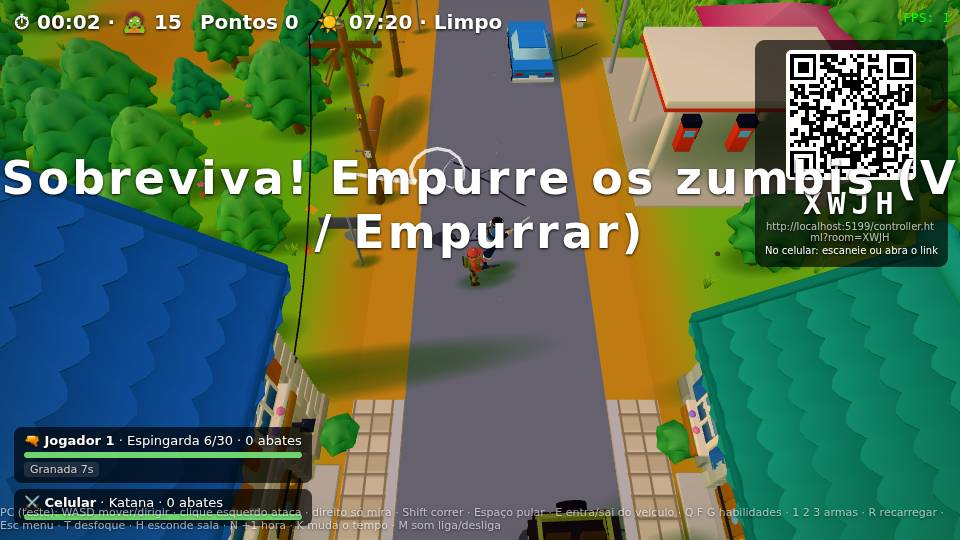
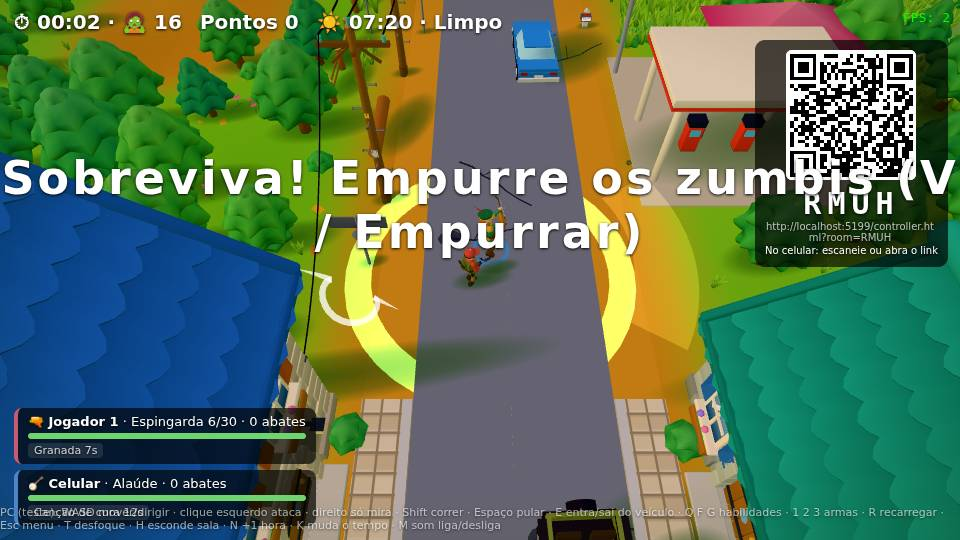
J1: escolher a classe no menu (classes repetidas) + anel da cor da vaga
- Cada vaga ocupada mostra ◀ classe ▶: mouse, A/D (ou ←/→) no teclado, ◀ ▶ na espera do celular
  (o celular manda act 'prev'/'next'; no menu o main.js leva ao lobby.pick)
- Classes repetidas permitidas; a vaga continua definindo cor e ponto de largada
- Anel da cor da vaga no chão sob cada jogador (desenhado depois da sombra) e faixa da cor no placar
- Smoke troca as classes no menu e confere na partida

Quem não troca de classe joga igual (replay igual).

diff --git a/src/engine/ui/lobby.js b/src/engine/ui/lobby.js
@@ -38,6 +38,7 @@ body.in-lobby #hud { display: none }
 .slot button:hover:not(:disabled), #start:hover:not(:disabled) { background: #fff4 }
 .slot button:disabled { opacity: .35; cursor: not-allowed }
 .slot .x { position: absolute; top: 6px; right: 6px; padding: 2px 8px; background: #0006 }
+.slot .pk { padding: 0 7px; margin: 0 4px; font-size: 12px }
 .slot input { font: inherit; font-weight: 700; font-size: 18px; background: #0006; color: #fff; border: 1px solid #fff3; border-radius: 6px; padding: 6px 8px; width: calc(100% - 34px) }
 .slot .st { font-size: 14px; opacity: .85 } .slot .st.wait { color: #ffcf9a }
 #start { font-size: 20px; padding: 14px; background: #c85b72 } #start:disabled { background: #fff2; opacity: .6; cursor: not-allowed }
@@ -59,18 +60,28 @@ function ensureDom(sub) {
 }
 
 // Menu inicial: 4 vagas; cada vaga é "Celular" (entra pelo QR/código) ou "Mouse e teclado" (jogador local).
-// O jogo passa: labels = texto de cada vaga (ex.: a classe) · sound(nome, opções) = som da interface · subtitle = frase do menu
-export function CreateLobby({ onStart, onKick, onChange, labels = ['', '', '', ''], sound = () => {}, subtitle = '' }) {
+// O jogo passa: choices = opções que cada vaga pode escolher com ◀ ▶ (ex.: as classes; a vaga N começa na opção N)
+// · sound(nome, opções) = som da interface · subtitle = frase do menu.
+// Trocar a opção: setas na vaga (mouse), A/D ou ←/→ (teclado, na vaga do teclado), pick(id, ±1) (celular, via jogo).
+export function CreateLobby({ onStart, onKick, onChange, choices = [], sound = () => {}, subtitle = '' }) {
   ensureDom(subtitle)
-  const slots = [null, null, null, null] // { type: 'phone' | 'kb', id, name }
+  const slots = [null, null, null, null] // { type: 'phone' | 'kb', id, name, choice }
   let code = ''
   const el = $('#lobby'), box = $('#slots')
   const hasKb = () => slots.some((s) => s && s.type === 'kb')
-  const entries = () => slots.map((s, i) => (s && s.id ? { slot: i, id: s.id, name: s.name, type: s.type } : null)).filter(Boolean)
+  const pickOf = (i) => (slots[i] && slots[i].choice !== undefined ? slots[i].choice : i % Math.max(1, choices.length))
+  const entries = () => slots.map((s, i) => (s && s.id ? { slot: i, id: s.id, name: s.name, type: s.type, choice: pickOf(i) } : null)).filter(Boolean)
+  function cycle(i, d) {
+    if (!slots[i] || !choices.length || !d) return
+    slots[i].choice = (pickOf(i) + d + choices.length) % choices.length
+    render(); onChange()
+  }
 
   function render() {
     box.innerHTML = slots.map((s, i) => {
-      const head = `<div class="slot" style="--c:${COLORS[i]}"><div class="sn">JOGADOR ${i + 1} · <span style="color:${COLORS[i]}">${labels[i]}</span></div>`
+      const arrow = (a, t) => (s && choices.length > 1 ? `<button class="pk" data-a="${a}" data-i="${i}" title="Trocar">${t}</button>` : '')
+      const label = choices.length ? choices[pickOf(i)] : ''
+      const head = `<div class="slot" style="--c:${COLORS[i]}"><div class="sn">JOGADOR ${i + 1} · ${arrow('prev', '◀')}<span style="color:${COLORS[i]}">${label}</span>${arrow('next', '▶')}</div>`
       if (!s) {
         return `${head}<div class="opts"><button data-a="phone" data-i="${i}">📱 Celular</button><button data-a="kb" data-i="${i}" ${hasKb() ? 'disabled title="Só um jogador pode usar mouse e teclado"' : ''}>⌨ Mouse e teclado</button></div></div>`
       }
@@ -88,7 +99,8 @@ export function CreateLobby({ onStart, onKick, onChange, labels = ['', '', '', '
     const b = e.target.closest('button[data-a]')
     if (!b) return
     const i = +b.dataset.i, a = b.dataset.a
-    sound('ui', { f: a === 'del' ? 520 : 880 })
+    sound('ui', { f: a === 'del' ? 520 : a === 'prev' || a === 'next' ? 700 : 880 })
+    if (a === 'prev' || a === 'next') return cycle(i, a === 'prev' ? -1 : 1)
     if (a === 'phone' && !slots[i]) slots[i] = { type: 'phone', id: null, name: '' }
     else if (a === 'kb' && !slots[i] && !hasKb()) slots[i] = { type: 'kb', id: 'local', name: `Jogador ${i + 1}` }
     else if (a === 'del') {
@@ -104,7 +116,14 @@ export function CreateLobby({ onStart, onKick, onChange, labels = ['', '', '', '
   })
   const start = () => { const list = entries(); if (list.length && !el.classList.contains('hidden')) onStart(list) }
   $('#start').addEventListener('click', start)
-  addEventListener('keydown', (e) => { if (e.key === 'Enter' && e.target.tagName !== 'BUTTON') start() })
+  addEventListener('keydown', (e) => {
+    if (e.key === 'Enter' && e.target.tagName !== 'BUTTON') return start()
+    // teclado troca a opção da própria vaga
+    if (el.classList.contains('hidden') || e.target.tagName === 'INPUT' || e.repeat) return
+    const k = e.key.toLowerCase(), d = k === 'a' || k === 'arrowleft' ? -1 : k === 'd' || k === 'arrowright' ? 1 : 0
+    const i = slots.findIndex((s) => s && s.type === 'kb')
+    if (d && i >= 0) { sound('ui', { f: 700 }); cycle(i, d) }
+  })
 
   render()
   return {
@@ -125,7 +144,7 @@ export function CreateLobby({ onStart, onKick, onChange, labels = ['', '', '', '
       let i = slots.findIndex((s) => s && s.type === 'phone' && !s.id)
       if (i < 0) i = slots.findIndex((s) => !s)
       if (i < 0) return -1
-      slots[i] = { type: 'phone', id, name: (name || '').slice(0, 12) || `Jogador ${i + 1}` }
+      slots[i] = { type: 'phone', id, name: (name || '').slice(0, 12) || `Jogador ${i + 1}`, choice: slots[i] ? slots[i].choice : undefined }
       sound('join')
       render(); onChange()
       return i
@@ -133,6 +152,11 @@ export function CreateLobby({ onStart, onKick, onChange, labels = ['', '', '', '
     removeId(id) {
       const i = slots.findIndex((s) => s && s.id === id)
       if (i >= 0) { slots[i] = null; render(); onChange() }
+    },
+    // celular pediu para trocar a opção (d = -1 ou 1)
+    pick(id, d) {
+      const i = slots.findIndex((s) => s && s.id === id)
+      if (i >= 0 && d) { sound('ui', { f: 700 }); cycle(i, d) }
     },
     resetPhones() { slots.forEach((s, i) => { if (s && s.type === 'phone') slots[i] = null }); render() },
   }

diff --git a/src/games/survivor/rules/survival.js b/src/games/survivor/rules/survival.js
@@ -13,6 +13,7 @@ import { CreateVehicles } from '../../../shared/vehicles/vehicles'
 import { sfx } from '../../../shared/audio/sfx'
 import { ApplyInput } from '../../../engine/input/contract'
 import { BALANCE } from '../config/balance'
+import { PLAYER_COLORS } from '../../../engine/render/splitscreen'
 
 const MAX_PLAYERS = 4
 // números das regras: config/balance.js
@@ -20,6 +21,9 @@ const RU = BALANCE.rules, PL = BALANCE.player
 const REVIVE_T = RU.revive.time, SUPPLY_T = RU.supply.every
 // movimento (shared) com os números deste jogo; a balada do Bardo também acelera
 const MOVE = { ...PL, buffSpeed: BALANCE.bard.courage.speed }
+// anel da cor da vaga no chão, sob os pés: com classes repetidas, cada um se acha na tela (desenhado depois da sombra)
+const RING_GEO = new THREE.RingGeometry(0.5, 0.68, 28).rotateX(-Math.PI / 2)
+const RING_MAT = PLAYER_COLORS.map((c) => new THREE.MeshBasicMaterial({ color: c, transparent: true, opacity: 0.85, depthWrite: false }))
 
 // hooks: { onEnd() (fim de jogo), night() (zumbis enxergam menos e são mais numerosos), loaded(x, z) (chunk carregado?) }
 export function CreateGame(scene, colliders, net, hooks = {}) {
@@ -43,15 +47,17 @@ export function CreateGame(scene, colliders, net, hooks = {}) {
   }
   const abilities = CreateAbilities({ scene, fx, wfx, colliders, enemies, players, hit, noise: horde.noise })
 
-  // slot = vaga escolhida no lobby: define a classe (1 Atirador · 2 Samurai · 3 Mago · 4 Bardo) e o ponto de largada
-  function addPlayer(id, name, slot) {
+  // slot = vaga do lobby: cor e ponto de largada · choice = classe escolhida (0 Atirador · 1 Samurai · 2 Mago · 3 Bardo; sem escolha = a da vaga)
+  function addPlayer(id, name, slot, choice) {
     if (players.has(id) || players.size >= MAX_PLAYERS) return
     const idx = slot ?? players.size
-    const cls = ClassOf(idx)
+    const cls = ClassOf(choice ?? idx)
     const model = CreatePlayerModel(cls.id)
-    scene.add(model.root)
+    const ring = new THREE.Mesh(RING_GEO, RING_MAT[idx % 4])
+    ring.renderOrder = 2
+    scene.add(model.root, ring)
     const p = {
-      id, name, idx, cls, model, x: (idx - 1.5) * 1.3, z: 0, vx: 0, vz: 0, aimAngle: Math.PI, facing: Math.PI, turn: 0, speed: 0, aiming: false, firing: false,
+      id, name, idx, cls, model, ring, x: (idx - 1.5) * 1.3, z: 0, vx: 0, vz: 0, aimAngle: Math.PI, facing: Math.PI, turn: 0, speed: 0, aiming: false, firing: false,
       jy: 0, vy: 0, gy: 0, y: 0, lv: 0, stamina: 100, tired: false, running: false, cool: 0, kills: 0, lastIn: performance.now(),
       dead: false, vehicle: null, seat: null, pad: 0, hurtCar: 0, held: 0, struggle: 0, shoveCd: 0, reviveT: 0,
       input: { mx: 0, mz: 0, ax: 0, az: 0, run: 0 },
@@ -65,7 +71,7 @@ export function CreateGame(scene, colliders, net, hooks = {}) {
     if (!p) return
     if (p.vehicle) vehicles.exit(p, true)
     horde.releasePlayer(p)
-    scene.remove(p.model.root)
+    scene.remove(p.model.root, p.ring)
     players.delete(id)
   }
   function setInput(id, m) {
@@ -174,7 +180,11 @@ export function CreateGame(scene, colliders, net, hooks = {}) {
     // zumbis e veículos
     const list = [...players.values()]
     vehicles.update(dt, list, enemies, list.length ? list : [{ x: 0, z: 0 }], { hit })
-    for (const p of list) p.model.animate(dt, p) // depois dos veículos: quem está sentado já tem a posição do banco
+    for (const p of list) { // depois dos veículos: quem está sentado já tem a posição do banco
+      p.model.animate(dt, p)
+      p.ring.visible = !p.vehicle
+      p.ring.position.set(p.x, (p.y || 0) - (p.jy || 0) + 0.1, p.z) // no chão, mesmo pulando
+    }
     wfx.update(dt, list.filter((p) => !p.vehicle), enemies)
     if (players.size) horde.update(dt)
     abilities.update(dt)

diff --git a/src/games/survivor/main.js b/src/games/survivor/main.js
@@ -29,7 +29,7 @@ import { BindKeyboard } from '../../engine/input/keyboard'
 import { CreateSoundscape } from '../../shared/audio/soundscape'
 import { sfx, gate } from '../../shared/audio/sfx'
 
-const SLOT_LABELS = CLASS_ORDER.map((k) => `${CLASSES[k].icon} ${CLASSES[k].name}`) // a vaga define a classe
+const CLASS_LABELS = CLASS_ORDER.map((k) => `${CLASSES[k].icon} ${CLASSES[k].name}`) // cada vaga escolhe uma (◀ ▶ no menu); repetir pode
 const KEYS = { r: 'reload', 1: 'carbine', 2: 'shotgun', 3: 'pistol' } // teclas do Atirador (as outras são padrão do motor)
 // ?bots=1..3 na URL: jogadores controlados pelo computador, só para teste (bots.js)
 const BOTS = Math.min(3, Math.max(0, parseInt(new URLSearchParams(location.search).get('bots'), 10) || 0))
@@ -77,7 +77,7 @@ export async function LoadGame() {
   function notifyPhones() {
     if (phase !== 'lobby' || !net) return
     const list = lobby.entries()
-    for (const e of list) if (e.type === 'phone') net.send(e.id, { t: 'lobby', slot: e.slot + 1, total: list.length })
+    for (const e of list) if (e.type === 'phone') net.send(e.id, { t: 'lobby', slot: e.slot + 1, total: list.length, pick: CLASS_LABELS[e.choice] })
   }
   function toLobby() {
     sound.clear()
@@ -95,12 +95,12 @@ export async function LoadGame() {
       sfx('start')
       split.reset()
       lobby.hide()
-      for (const e of entries) game.addPlayer(e.id, e.name, e.slot)
+      for (const e of entries) game.addPlayer(e.id, e.name, e.slot, e.choice)
       if (BOTS) bots.add([0, 1, 2, 3].filter((s) => !entries.some((e) => e.slot === s))) // bots nas vagas livres
     },
     onKick: (id) => net.send(id, { t: 'kick', msg: 'Você foi removido da sala' }),
     onChange: notifyPhones,
-    labels: SLOT_LABELS, sound: sfx, subtitle: 'Sobreviva aos zumbis · até 4 jogadores',
+    choices: CLASS_LABELS, sound: sfx, subtitle: 'Sobreviva aos zumbis · até 4 jogadores',
   })
 
   net = ConnectHost({
@@ -113,11 +113,12 @@ export async function LoadGame() {
     onJoin: (id, name) => {
       const slot = lobby.addPhone(id, name)
       if (slot < 0) return net.send(id, { t: 'kick', msg: 'Sala cheia' })
-      if (phase === 'playing') game.addPlayer(id, name, slot) // entrada tardia: já nasce na partida
+      if (phase === 'playing') game.addPlayer(id, name, slot, lobby.entries().find((e) => e.id === id)?.choice) // entrada tardia: já nasce na partida
     },
     onLeave: (id) => { lobby.removeId(id); game.removePlayer(id) },
     onInput: (id, m) => game.setInput(id, m),
-    onAct: (id, a) => game.act(id, a),
+    // no menu, o celular só troca a classe (◀ ▶); na partida, as ações vão para o jogo
+    onAct: (id, a) => (phase === 'lobby' ? lobby.pick(id, a === 'prev' ? -1 : a === 'next' ? 1 : 0) : game.act(id, a)),
   })
   game = CreateGame(scene, colliders, net, { onEnd: toLobby, night: () => climate.time < BALANCE.day.nightTo || climate.time > BALANCE.day.nightFrom, loaded: chunks.loaded })
   events.on('vehicle-spot', (p) => game.vehicles.register(p)) // vaga na estrada → carro dirigível

diff --git a/src/engine/input/phone.js b/src/engine/input/phone.js
@@ -28,16 +28,18 @@ $('#go').onclick = () => {
       document.documentElement.requestFullscreen?.().catch(() => {})
       screen.orientation?.lock?.('landscape').catch(() => {})
     } else if (m.t === 'error') $('#err').textContent = m.msg
-    else if (m.t === 'state') onState(m)
+    else if (m.t === 'state') { showPick(''); onState(m) }
     else if (m.t === 'hit') navigator.vibrate?.(120)
-    else if (m.t === 'lobby') showState(`Você é o Jogador ${m.slot}\nAguardando o host iniciar… (${m.total} na sala)`)
-    else if (m.t === 'kick') { kicked = true; showState(m.msg || 'Removido da sala'); ws.close() }
-    else if (m.t === 'closed') showState('Jogo encerrado')
+    else if (m.t === 'lobby') { showState(`Você é o Jogador ${m.slot}\nAguardando o host iniciar… (${m.total} na sala)`); showPick(m.pick || '') }
+    else if (m.t === 'kick') { kicked = true; showPick(''); showState(m.msg || 'Removido da sala'); ws.close() }
+    else if (m.t === 'closed') { showPick(''); showState('Jogo encerrado') }
   }
   ws.onclose = () => { if (!kicked && $('#pad').style.display === 'block') showState('Desconectado — recarregue a página') }
 }
 
 function showState(t) { const s = $('#state'); s.textContent = t; s.style.display = t ? 'block' : 'none' }
+// na espera do menu: ◀ opção ▶ (o jogo manda o texto, ex.: a classe; vazio = esconde)
+function showPick(t) { $('#pickname').textContent = t; $('#pick').style.display = t ? 'flex' : 'none' }
 
 function onState(m) {
   $('#hp i').style.width = `${(m.hp / m.max) * 100}%`
@@ -97,7 +99,7 @@ function Stick(zone, cb) {
 Stick($('#zl'), (x, y) => { input.mx = x; input.mz = y })
 Stick($('#zr'), (x, y) => { input.ax = x; input.az = y })
 
-for (const [id, a] of [['#b1', 'b1'], ['#b2', 'b2'], ['#b3', 'b3'], ['#use', 'use']]) {
+for (const [id, a] of [['#b1', 'b1'], ['#b2', 'b2'], ['#b3', 'b3'], ['#use', 'use'], ['#prev', 'prev'], ['#next', 'next']]) {
   $(id).addEventListener('pointerdown', (e) => { e.stopPropagation(); send({ t: 'act', a }); navigator.vibrate?.(15) })
 }
 

diff --git a/controller.html b/controller.html
@@ -37,6 +37,9 @@
       @keyframes shake { from { transform: rotate(-6deg) scale(1.08) } to { transform: rotate(6deg) scale(1.12) } }
       .side:active, #run.on { background: #ff9d3f99; border-color: #ff9d3f }
       #st { width: 140px; height: 6px; background: #444; border-radius: 3px; overflow: hidden } #st i { display: block; height: 100%; width: 100%; background: #f0c040 }
+      #pick { position: absolute; left: 0; right: 0; top: 64%; display: none; justify-content: center; align-items: center; gap: 18px; z-index: 5 }
+      #pick button { font-size: 28px; font-weight: 800; width: 72px; height: 60px; border: 0; border-radius: 12px; background: #fff3; color: #fff; touch-action: manipulation }
+      #pick b { font-size: 26px; min-width: 200px; text-align: center; text-shadow: 0 2px 6px #000 }
       #state { position: absolute; left: 0; right: 0; top: 40%; text-align: center; font-size: 32px; font-weight: 800; display: none; text-shadow: 0 2px 6px #000; white-space: pre-line; padding: 0 20px }
     </style>
   </head>
@@ -55,6 +58,7 @@
       <div id="btns"><button id="b1" class="hide"></button><button id="b2" class="hide"></button><button id="b3" class="hide"></button></div>
       <button class="side" id="run">Correr</button><button class="side" id="jump">Pular</button><button class="side" id="shove">Empurrar</button><button id="use">🚗 Entrar</button>
       <div id="state"></div>
+      <div id="pick"><button id="prev">◀</button><b id="pickname"></b><button id="next">▶</button></div>
     </div>
     <script type="module" src="/src/engine/input/phone.js"></script>
   </body>

diff --git a/src/games/survivor/ui/hud.js b/src/games/survivor/ui/hud.js
@@ -1,5 +1,6 @@
 import QRCode from 'qrcode'
 import { clock } from '../rules/survival'
+import { PLAYER_COLORS } from '../../../engine/render/splitscreen'
 
 const $ = (s) => document.querySelector(s)
 
@@ -25,7 +26,7 @@ export function CreateHud(game, climate) {
         const car = p.vehicle ? ` · 🚗 ${p.vehicle.d.name}${p.seat.mode === 'drive' ? ' (dirigindo)' : ''}` : ''
         const mana = p.cls.id === 'mage' ? `<div class="bar mana"><i style="width:${p.mana}%"></i></div>` : ''
         const state = p.dead ? (game.st.over ? '' : ` · 💀 volta em ${Math.ceil(p.reviveT)}s`) : p.held ? ' · <span class="grab">🧟 AGARRADO! (V)</span>' : ''
-        return `<div class="pl ${p.dead ? 'dead' : ''}"><b>${p.cls.icon} ${p.name}</b> · ${inf.text} · ${p.kills} abates${car}${p.buffT > 0 ? ' · ✨' : ''}${state}<div class="bar"><i style="width:${(p.hp / p.max) * 100}%"></i></div>${mana}${cds ? `<div class="cds">${cds}</div>` : ''}</div>`
+        return `<div class="pl ${p.dead ? 'dead' : ''}" style="border-left:4px solid ${PLAYER_COLORS[p.idx % 4]}"><b>${p.cls.icon} ${p.name}</b> · ${inf.text} · ${p.kills} abates${car}${p.buffT > 0 ? ' · ✨' : ''}${state}<div class="bar"><i style="width:${(p.hp / p.max) * 100}%"></i></div>${mana}${cds ? `<div class="cds">${cds}</div>` : ''}</div>`
       }).join('')
     },
   }

diff --git a/main.css b/main.css
@@ -36,6 +36,7 @@ body.in-lobby #hud { display: none }
 .slot button:hover:not(:disabled), #start:hover:not(:disabled) { background: #fff4 }
 .slot button:disabled { opacity: .35; cursor: not-allowed }
 .slot .x { position: absolute; top: 6px; right: 6px; padding: 2px 8px; background: #0006 }
+.slot .pk { padding: 0 7px; margin: 0 4px; font-size: 12px }
 .slot input { font: inherit; font-weight: 700; font-size: 18px; background: #0006; color: #fff; border: 1px solid #fff3; border-radius: 6px; padding: 6px 8px; width: calc(100% - 34px) }
 .slot .st { font-size: 14px; opacity: .85 } .slot .st.wait { color: #ffcf9a }
 #start { font-size: 20px; padding: 14px; background: #c85b72 } #start:disabled { background: #fff2; opacity: .6; cursor: not-allowed }

diff --git a/CLAUDE.md b/CLAUDE.md
@@ -37,7 +37,7 @@ Endereço do relay no navegador: `VITE_WS_URL` se existir; senão `ws(s)://<mesm
      (o Vite e o Three.js também sorteiam, e isso mudaria com a ordem dos arquivos). `SIM_TRACE=arquivo node scripts/sim.mjs` grava o rastro
      quadro a quadro para achar onde dois replays se separam.
 - `npm run smoke` — teste automático (~3 min). Compila o jogo, sobe relay **8099** e página **5199** (não briga com o dev/server do dono),
-  abre no Chromium sem tela, entra 1 teclado (Atirador) + 1 celular simulado (Samurai), joga 60 s (anda, atira, habilidades, carro, noite),
+  abre no Chromium sem tela, entra 1 teclado (Atirador; aperta D e A no menu) + 1 celular simulado (troca para Bardo com ▶ ▶), confere as classes, joga 60 s (anda, atira, habilidades, carro, noite),
   aperta Esc e confere a volta ao menu. **Falha se aparecer qualquer `console.error` ou erro de página.** Capturas e log em `smoke/` (versionados: o PR mostra as capturas).
   Script: `scripts/smoke.mjs`. Sem GPU o jogo roda a 1–2 FPS → 60 s reais ≈ 6 s de jogo. Pega erro de carregar/iniciar/botões, não bugs de longo prazo.
 - `docs/TESTE-MANUAL.md` — checklist de 5 min que o dono roda depois de cada PR (inclui anotar FPS). Peça para ele rodar.
@@ -63,7 +63,7 @@ src/engine/               genérico
   audio/engine.js         Web Audio: barramentos, primitivas, som posicional
   world/                  noise.js (hash/ruído), collision.js (grade de colisão), chunks.js (carrega/descarrega chunks),
                           pathing.js (desvio, A*, rota dentro de casas) — chunks.js é instância (CreateChunks)
-  ui/lobby.js             menu de 4 vagas (celular ou teclado); textos e sons vêm do jogo
+  ui/lobby.js             menu de 4 vagas (celular ou teclado); cada vaga escolhe uma opção com ◀ ▶ (choices vêm do jogo)
 src/shared/               peças prontas
   characters/             player.js (esqueleto/animação), looks.js (visual), kits.js (armas + IK), player-movement.js
   creatures/zombie-model.js  humanoide articulado (12 variações), base dos zumbis
@@ -77,7 +77,7 @@ src/games/survivor/       este jogo
   main.js                 liga tudo: renderer, clima, lobby, rede, teclado, loop; Wire() conecta motor ↔ mundo ↔ sons
   config/balance.js       TODOS os números ajustáveis (classes, armas, habilidades, zumbis, regras, dia), comentados em português
   config/weapons.js       nomes e ordem das armas (números vêm do balance.js)
-  rules/survival.js       REGRAS: jogadores, dano, morte/revive, suprimentos, fim de jogo, estado p/ celulares
+  rules/survival.js       REGRAS: jogadores (classe escolhida + anel da cor da vaga), dano, morte/revive, suprimentos, fim de jogo
   abilities/classes.js    as 4 classes e suas habilidades
   bots.js                 ?bots=1..3: jogadores do computador SÓ PARA TESTE (contrato do celular; tecla B espalha/junta)
   enemies/zombies.js      IA da horda: visão, audição, agarrão, renascer
@@ -87,7 +87,7 @@ src/games/survivor/       este jogo
 **Como as camadas conversam sem import subindo** (ligado em `games/survivor/main.js`):
 - Avisos (`engine/core/events.js`): o mundo emite `door-open`, `door-close`, `thunder`, `splash`, `vehicle-spot`; o jogo decide o som/carro.
 - Funções passadas ao motor: `CreateChunks({ scene, colliders, size, generate, onLoad, onUnload, afterUnload })`, `SetDeepTest` (água funda),
-  `SetIndoorRoute` (zumbi pela porta/escada), `SetIndoorTest` (parede abafa som). Lobby recebe `labels`, `sound`, `subtitle`. Teclado, as teclas extras.
+  `SetIndoorRoute` (zumbi pela porta/escada), `SetIndoorTest` (parede abafa som). Lobby recebe `choices`, `sound`, `subtitle`. Teclado, as teclas extras.
 - `shared` pode importar `shared` (ex.: `creatures/zombie-model` usa `SoleDepth` de `characters/player`; `fx/gore` usa `worldgen`).
 
 **Estado e memória (F2)** — o que é instância e o que continua único:
@@ -116,6 +116,8 @@ Teclado e celular usam exatamente o mesmo formato. Não mude sem pedir.
 - `game.act(id, ação)` — `b1` `b2` `b3` (botões da classe) · `shove` · `use` (carro) · `jump` · `reload` · `swap` · `carbine` `shotgun` `pistol`.
 - Celular → relay: `{t:'join', code, name}`, `{t:'in', mx, mz, ax, az, run}` a cada 33 ms, `{t:'act', a}`.
 - Tela → celular: `{t:'state', hp, max, cls, w, btn, car, dead, st, time, score, held, rv}` a cada 0,15 s; `hit`, `lobby`, `kick`, `closed`.
+- No menu: celular manda `{t:'act', a:'prev'|'next'}` para trocar a classe (o `main.js` manda para `lobby.pick` só na fase de menu);
+  a tela manda `{t:'lobby', slot, total, pick}` (pick = texto da classe escolhida). `game.addPlayer(id, nome, vaga, classe)`.
 - Jogador do teclado tem id `'local'`. Bots de teste têm id `bot1`…`bot3` e usam o mesmo contrato (`games/survivor/bots.js`).
 
 ## Decisões tomadas (não reabra sem perguntar ao dono)
@@ -151,7 +153,7 @@ Título claro + descrição com:
 - Risco e como desfazer
 
 ## Proibido nesta fase (até o dono liberar)
-Não mudar regras de jogo. Não criar classes, armas, inimigos, itens ou missões. Não separar classe da vaga ainda.
+Só mudar regras de jogo nos PRs J1…J14 aprovados pelo dono (um por vez). Não criar classes, armas, inimigos, itens ou missões fora desse plano.
 Não implementar online com uma tela por jogador. Não mexer na câmera. Não migrar para TypeScript. Não criar sistema Entity/Component. Não publicar nada.
 
 ## Fatos que não são óbvios no código
@@ -192,6 +194,8 @@ F2 estado global → instâncias com `reset()` + caches limpos por distância (m
 ## Histórico de PRs
 - **limpeza** — `node_modules/` fora do Git; `.gitignore` aceita .glb/.gltf; `player-moviment.js` → `player-movement.js`; README sem `reflections.js`;
   `npm run smoke`; este CLAUDE.md; `docs/COMO-FUNCIONA.md`; `docs/TESTE-MANUAL.md`. Nenhuma mudança no jogo.
+- **j1-escolher-classe (J1)** — classe escolhida no menu (◀ ▶; A/D no teclado; ◀ ▶ na espera do celular), classes repetidas permitidas;
+  anel da cor da vaga no chão sob cada jogador + faixa da cor no placar. Quem não troca joga igual (replay igual). Smoke troca classes no menu.
 - **correcao-placas** — atlas de placas com células fixas e contagem de quem usa cada texto. Antes: 1.813 placas montadas com texto
   errado em 8 km de estrada (2.590 com tela em 4). Depois: 0 (simulação com o atlas real; tela em 4: 109 em branco). Só visual: mundo e replay iguais.
 - **fundacao-balanco (F3)** — `config/balance.js` com todos os números (classes, armas, habilidades, zumbis, regras, dia);

diff --git a/README.md b/README.md
@@ -20,7 +20,7 @@ Teste sem celular: WASD + mouse (clique esquerdo ataca, direito só mira), E ent
 Testar sozinho com 4 classes: abra o jogo com **`?bots=3`** no fim do endereço (3 jogadores do computador ocupam as vagas livres; tecla **B** espalha/junta, para ver a tela dividida). Só para teste.
 
 ## Controles do celular
-Stick esquerdo = mover (ou dirigir) · stick direito = mirar (ataca enquanto inclinado) · botões da classe (nome e recarga vêm do jogo) · 🚗 aparece perto de um veículo (Entrar/Sair) · Correr · Pular · **Empurrar** (pisca quando um zumbi agarra).
+Na espera do menu: **◀ ▶** trocam a classe. Na partida: stick esquerdo = mover (ou dirigir) · stick direito = mirar (ataca enquanto inclinado) · botões da classe (nome e recarga vêm do jogo) · 🚗 aparece perto de um veículo (Entrar/Sair) · Correr · Pular · **Empurrar** (pisca quando um zumbi agarra).
 
 ## Zumbis (estilo Project Zomboid)
 Sem ondas: a partida é sobrevivência sem fim (o relógio conta o tempo vivo). IA em `src/games/survivor/enemies/`, modelo em `src/shared/creatures/`, caminhos em `src/engine/world/`:
@@ -32,8 +32,10 @@ Sem ondas: a partida é sobrevivência sem fim (o relógio conta o tempo vivo). 
 - `pathing.js` – desvio de obstáculos, A* quando trava, portas e escadas das casas.
 - Quem cai volta em 25 s ao lado de um aliado vivo (a canção do bardo revive na hora). Suprimentos de munição a cada 75 s. Fim de jogo quando todos caem.
 
-## Classes (a vaga define a classe)
-| Vaga | Classe | Ataque (stick direito) | Botões |
+## Classes (cada jogador escolhe no menu; repetir pode)
+Cada vaga começa numa classe (1 Atirador, 2 Samurai, 3 Mago, 4 Bardo) e troca com ◀ ▶. A cor da vaga vira um anel no chão sob o jogador.
+
+| Vaga inicial | Classe | Ataque (stick direito) | Botões |
 |---|---|---|---|
 | 1 | 🔫 Atirador | carabina / espingarda / pistola | Trocar arma · Recarregar · Granada |
 | 2 | ⚔ Samurai (130 PV) | combo de katana em 3 golpes (o 3º é pesado) | Investida (atravessa cortando, invulnerável) · Redemoinho |
@@ -64,7 +66,7 @@ Todo som é sintetizado na hora com Web Audio (osciladores, ruído, filtros e co
 3. Defina `VITE_WS_URL=wss://seu-servidor.exemplo.com` antes do build.
 
 ## Menu inicial (lobby)
-Ao abrir o jogo aparece o menu com 4 vagas. Em cada vaga escolha **📱 Celular** (o jogador entra pelo QR code/código) ou **⌨ Mouse e teclado** (só uma vaga). Quem entra pelo celular já ocupa uma vaga sozinho. **Enter** inicia; **Esc** durante a partida (ou o fim de jogo) volta ao menu.
+Ao abrir o jogo aparece o menu com 4 vagas. Em cada vaga escolha **📱 Celular** (o jogador entra pelo QR code/código) ou **⌨ Mouse e teclado** (só uma vaga). Quem entra pelo celular já ocupa uma vaga sozinho. Cada vaga ocupada mostra **◀ classe ▶**: troque com o mouse, com **A/D** (ou ←/→) no teclado, ou com ◀ ▶ na tela de espera do celular. **Enter** inicia; **Esc** durante a partida (ou o fim de jogo) volta ao menu.
 
 ## Split screen
 Jogadores perto (< 13 unidades) dividem uma tela só; ao se afastar (> 19) ela se divide. Layout pelo número de telas: 2 = linha vertical · 3 = duas em cima + uma embaixo · 4 = 2x2. Quem cai assiste pela tela do grupo vivo mais próximo. Ajustes em `src/engine/render/splitscreen.js` (`MERGE`, `SPLIT`, `GAP`).

diff --git a/docs/TESTE-MANUAL.md b/docs/TESTE-MANUAL.md
@@ -12,8 +12,8 @@ Você precisa de **1 celular** e do teclado do PC. Para o item 12 (4 jogadores),
 | # | Teste | O que você deve ver | ✓ |
 |---|---|---|---|
 | 1 | **Menu** abre | 4 vagas (Atirador, Samurai, Mago, Bardo), QR code, código de 4 letras e "Servidor conectado" em verde | ☐ |
-| 2 | **Entrar pelo celular** (QR code) | O celular mostra "Você é o Jogador N". A vaga no PC diz "Celular conectado · pronto" | ☐ |
-| 3 | **Entrar pelo teclado** | Clique "⌨ Mouse e teclado" numa vaga livre → "pronto". Enter inicia a partida | ☐ |
+| 2 | **Entrar pelo celular** (QR code) e trocar a classe com ◀ ▶ | O celular mostra "Você é o Jogador N" e a classe. Ao tocar ▶, a classe muda no celular e no PC | ☐ |
+| 3 | **Entrar pelo teclado** e trocar a classe com A/D | Clique "⌨ Mouse e teclado" numa vaga livre → "pronto". A e D trocam a classe. Escolha a mesma do celular: os dois entram iguais, cada um com o anel da sua cor no chão. Enter inicia | ☐ |
 | 4 | **Atirador**: clique atira, 1/2/3 trocam a arma, R recarrega, G joga a granada | Tiros, cápsulas, explosão. Munição muda no placar | ☐ |
 | 5 | **Samurai**: clique faz o combo de 3 golpes, Q investida, F redemoinho | O 3º golpe derruba. A investida atravessa os zumbis | ☐ |
 | 6 | **Mago**: clique solta o dardo, Q meteoro, F nova de gelo | O dardo persegue o zumbi. Barra azul de mana desce e volta | ☐ |
@@ -25,7 +25,7 @@ Você precisa de **1 celular** e do teclado do PC. Para o item 12 (4 jogadores),
 | 12 | **Noite**: aperte N várias vezes (+1 hora cada) até 20:00 | O céu escurece, os postes acendem e aparecem mais zumbis | ☐ |
 | 13 | **Esc** durante a partida | Volta ao menu sem travar | ☐ |
 
-Para testar outra classe pelo teclado: Esc → no menu, clique ✕ na sua vaga → escolha "Mouse e teclado" em outra vaga.
+Para testar outra classe pelo teclado: Esc → no menu, aperte A ou D → Enter.
 
 **Sem amigos por perto?** Abra o jogo com `?bots=3` no fim do endereço (ex.: `.../?bots=3`). Três jogadores do computador entram
 nas vagas livres, cada um com sua classe, e seguem você. Aperte **B** para eles se espalharem (a tela divide) e **B** de novo para voltarem

diff --git a/docs/COMO-FUNCIONA.md b/docs/COMO-FUNCIONA.md
@@ -26,7 +26,8 @@ flowchart LR
 O que acontece quando alguém entra:
 1. A tela abre o jogo e pede uma **sala** ao servidor. O servidor devolve um código de 4 letras (aparece no menu com o QR code).
 2. O celular lê o QR code, abre a página de controle e manda o código. O servidor coloca o celular naquela sala.
-3. A tela recebe "entrou alguém" e ocupa uma vaga no menu. **A vaga define a classe**: 1 Atirador, 2 Samurai, 3 Mago, 4 Bardo.
+3. A tela recebe "entrou alguém" e ocupa uma vaga no menu. Cada um **escolhe a classe** com ◀ ▶ (no celular, no mouse ou com A/D no teclado).
+   Pode repetir classe. A cor da vaga aparece como um anel no chão, sob o jogador, para cada um se achar na tela.
 4. Durante a partida, cada celular manda os sticks ~30 vezes por segundo. A tela devolve vida, botões e recargas ~7 vezes por segundo.
 5. O teclado do PC usa **exatamente o mesmo formato** do celular. Por isso dá para misturar teclado e celulares.
 
